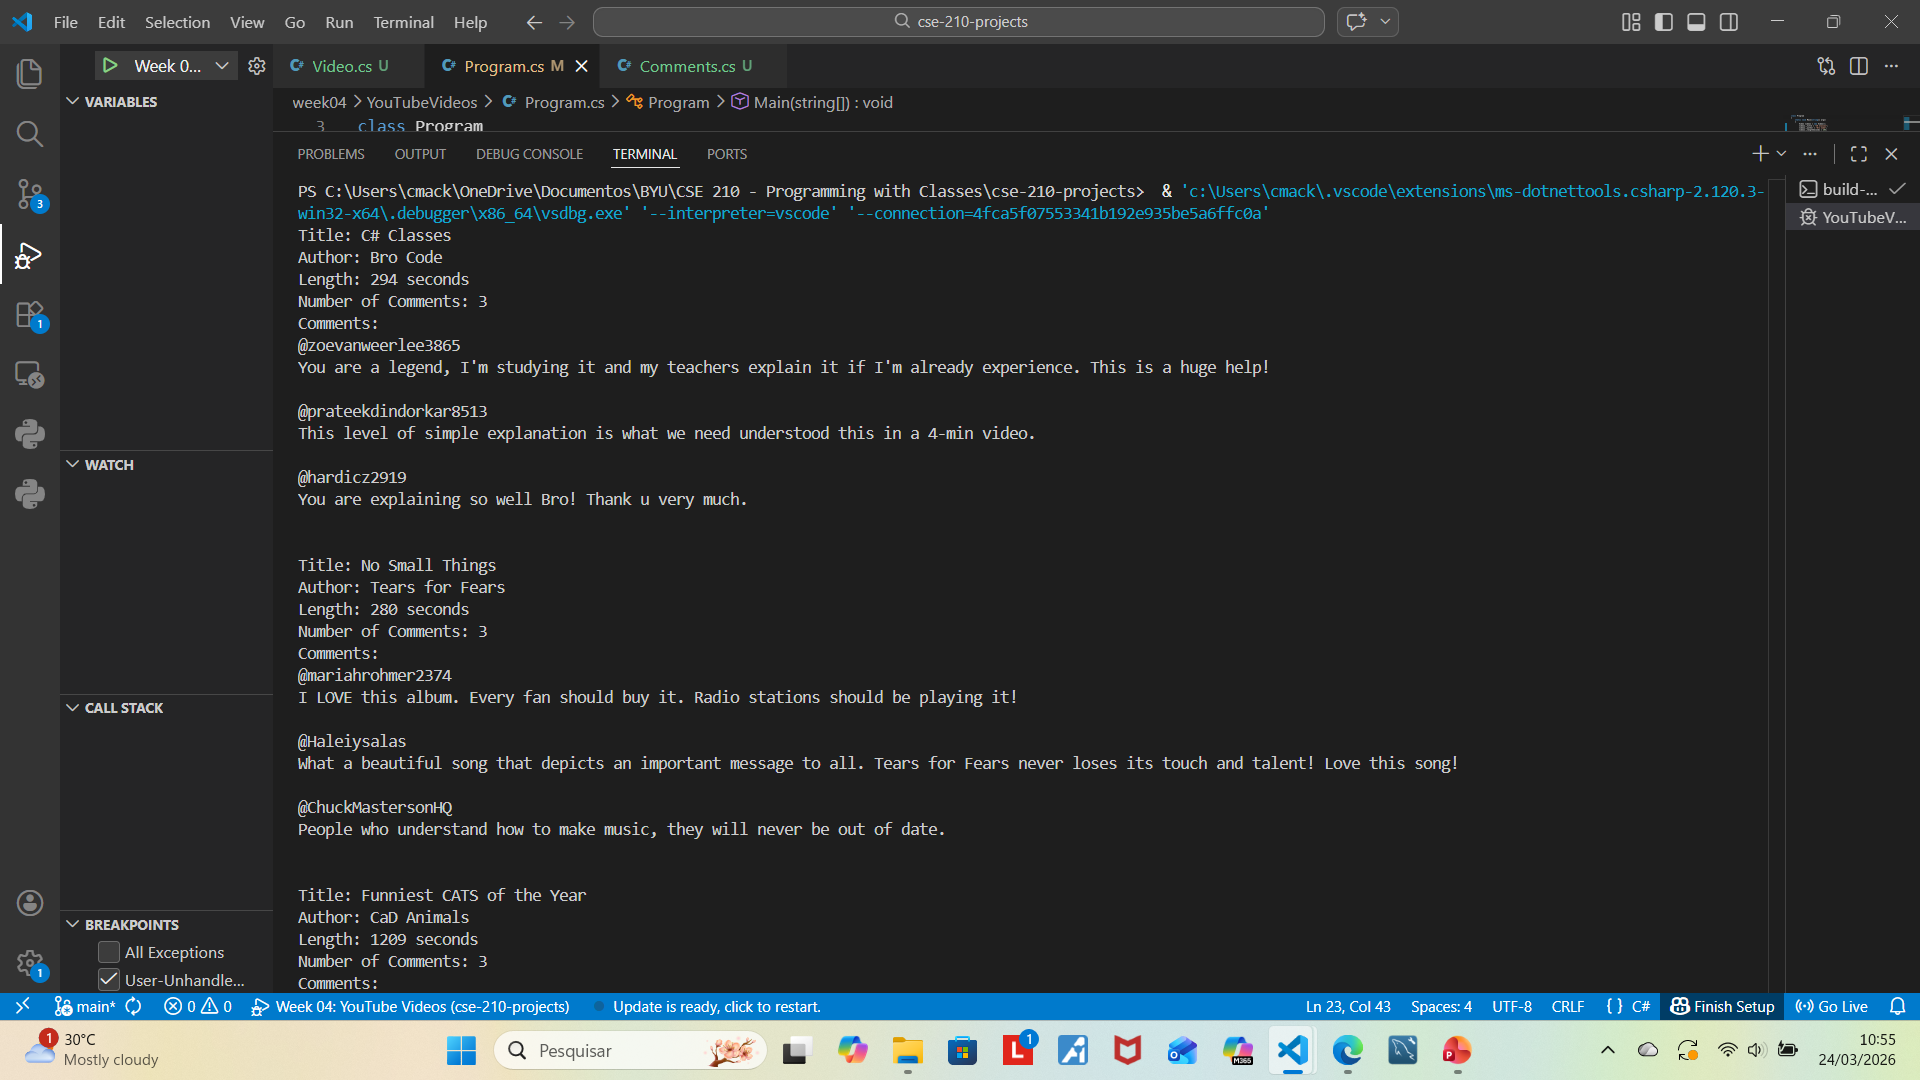
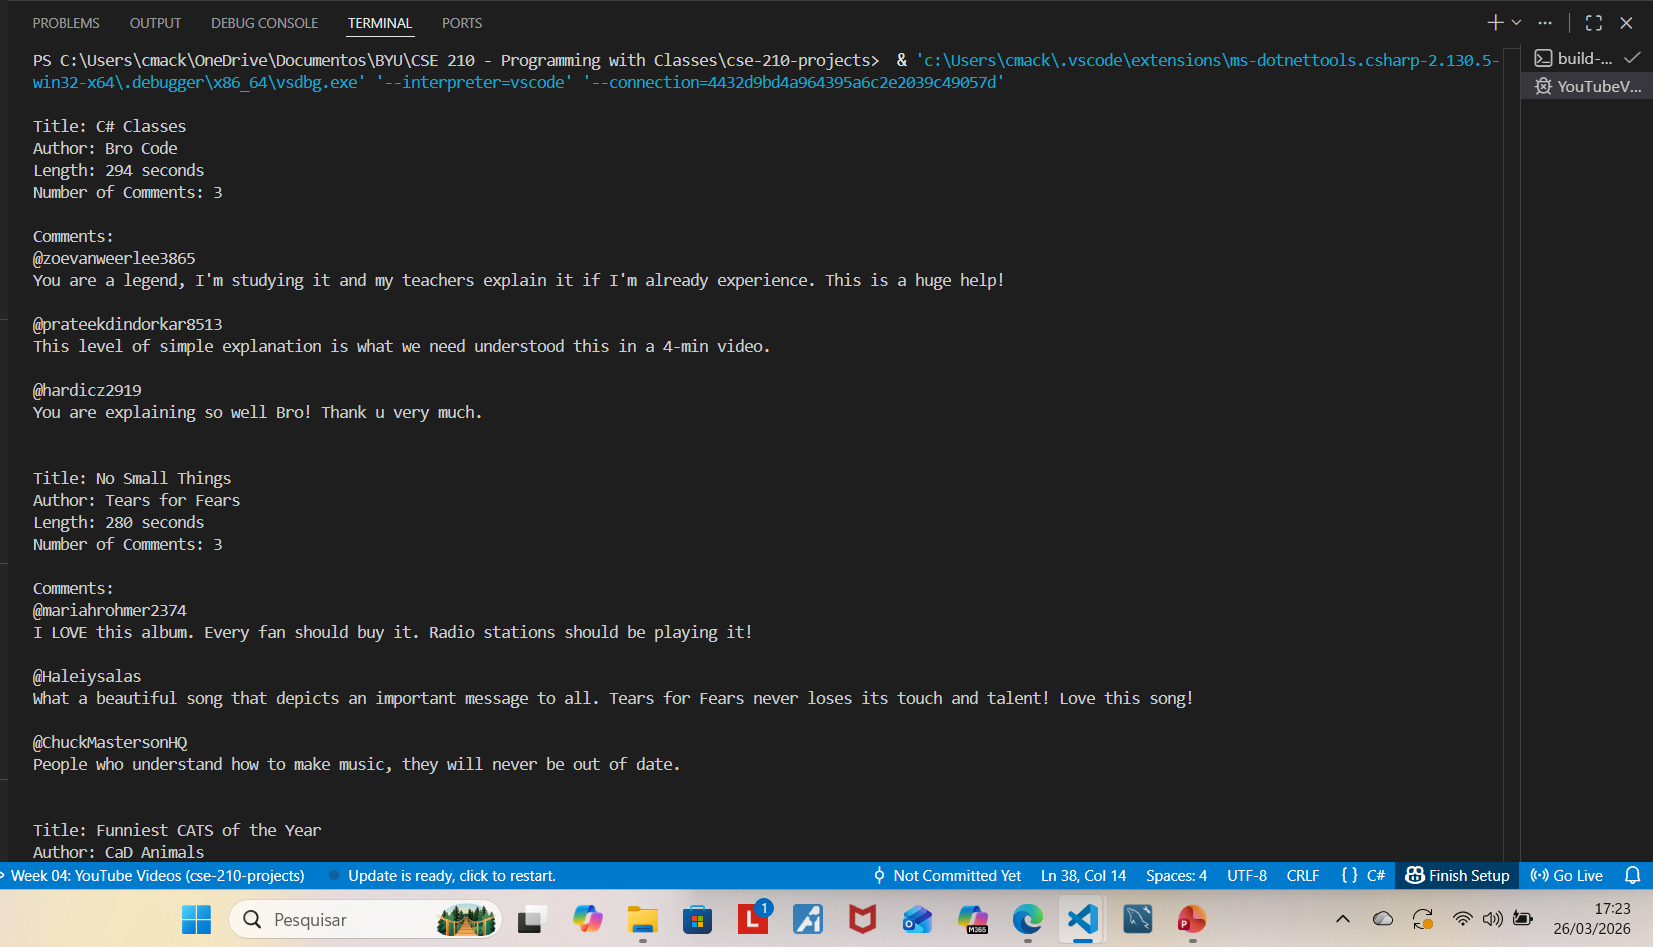
Added list for videos

Changed region(s): [[0.0, 0.0, 1.0, 0.49], [0.0, 0.49, 1.0, 1.0]]

diff --git a/week04/YouTubeVideos/Program.cs b/week04/YouTubeVideos/Program.cs
@@ -4,46 +4,38 @@ class Program
 {
     static void Main(string[] args)
     {
-        Video video1 = new Video();
-        video1._title = "C# Classes";
-        video1._author = "Bro Code";
-        video1._lengthSeconds = 294;
+        List<Video> videos = new List<Video>();
 
-        Video video2 = new Video();
-        video2._title = "No Small Things";
-        video2._author = "Tears for Fears";
-        video2._lengthSeconds = 280;
+        Video video1 = new Video("C# Classes", "Bro Code", 294 );
+        video1.AddComment(new Comment("@zoevanweerlee3865", "You are a legend, I'm studying it and my teachers explain it if I'm already experience. This is a huge help!"));
+        video1.AddComment(new Comment("@prateekdindorkar8513", "This level of simple explanation is what we need understood this in a 4-min video."));
+        video1.AddComment(new Comment("@hardicz2919", "You are explaining so well Bro! Thank u very much."));
+        videos.Add(video1);
 
-        Video video3 = new Video();
-        video3._title = "Funniest CATS of the Year";
-        video3._author = "CaD Animals";
-        video3._lengthSeconds = 1209;
+        Video video2 = new Video("No Small Things", "Tears for Fears", 280);
+        video2.AddComment(new Comment("@mariahrohmer2374", "I LOVE this album. Every fan should buy it. Radio stations should be playing it!"));
+        video2.AddComment(new Comment("@Haleiysalas", "What a beautiful song that depicts an important message to all. Tears for Fears never loses its touch and talent! Love this song!"));
+        video2.AddComment(new Comment("@ChuckMastersonHQ", "People who understand how to make music, they will never be out of date."));
+        videos.Add(video2);
 
-        video1.Comments.Add(new Comment("@zoevanweerlee3865", "You are a legend, I'm studying it and my teachers explain it if I'm already experience. This is a huge help!"));
-        video1.Comments.Add(new Comment("@prateekdindorkar8513", "This level of simple explanation is what we need understood this in a 4-min video."));
-        video1.Comments.Add(new Comment("@hardicz2919", "You are explaining so well Bro! Thank u very much."));
-            
-        video2.Comments.Add(new Comment("@mariahrohmer2374", "I LOVE this album. Every fan should buy it. Radio stations should be playing it!"));
-        video2.Comments.Add(new Comment("@Haleiysalas", "What a beautiful song that depicts an important message to all. Tears for Fears never loses its touch and talent! Love this song!"));
-        video2.Comments.Add(new Comment("@ChuckMastersonHQ", "People who understand how to make music, they will never be out of date."));
-
-        video3.Comments.Add(new Comment("@bakedbeetle", "No commentary, no obnoxious sound effects, hardly any captions, just cats. This is what the internet is for."));
-        video3.Comments.Add(new Comment("@tamaraj4200", "No stupid over voices. Love it!"));
-        video3.Comments.Add(new Comment("@LindseyN1223", "Cats are just pure chaos wrapped in a cute and fuzzy package, and I love that."));
-
-        DisplayVideo(video1);
-        DisplayVideo(video2);
-        DisplayVideo(video3);
-    }
-
-    static void DisplayVideo(Video video)
-    {
-        video.DisplayVideoInfo();
-        Console.WriteLine("Comments:");
-        foreach (var Comment in video.Comments)
+        Video video3 = new Video("Funniest CATS of the Year", "CaD Animals", 1209);
+        video3.AddComment(new Comment("@bakedbeetle", "No commentary, no obnoxious sound effects, hardly any captions, just cats. This is what the internet is for."));
+        video3.AddComment(new Comment("@tamaraj4200", "No stupid over voices. Love it!"));
+        video3.AddComment(new Comment("@LindseyN1223", "Cats are just pure chaos wrapped in a cute and fuzzy package, and I love that."));
+        videos.Add(video3);
+        
+        foreach (Video video in videos)
         {
-            Comment.DisplayComment();
-        }
-        Console.WriteLine();
+            Console.WriteLine($"\nTitle: {video._title}");
+            Console.WriteLine($"Author: {video._author}");
+            Console.WriteLine($"Length: {video._lengthSeconds} seconds");
+            Console.WriteLine($"Number of Comments: {video.NumberofComments()}");
+            Console.WriteLine("\nComments:");
+
+            foreach (Comment comment in video.GetComments())
+            {
+                comment.DisplayComment();
+            }
+        }           
     }
 }
